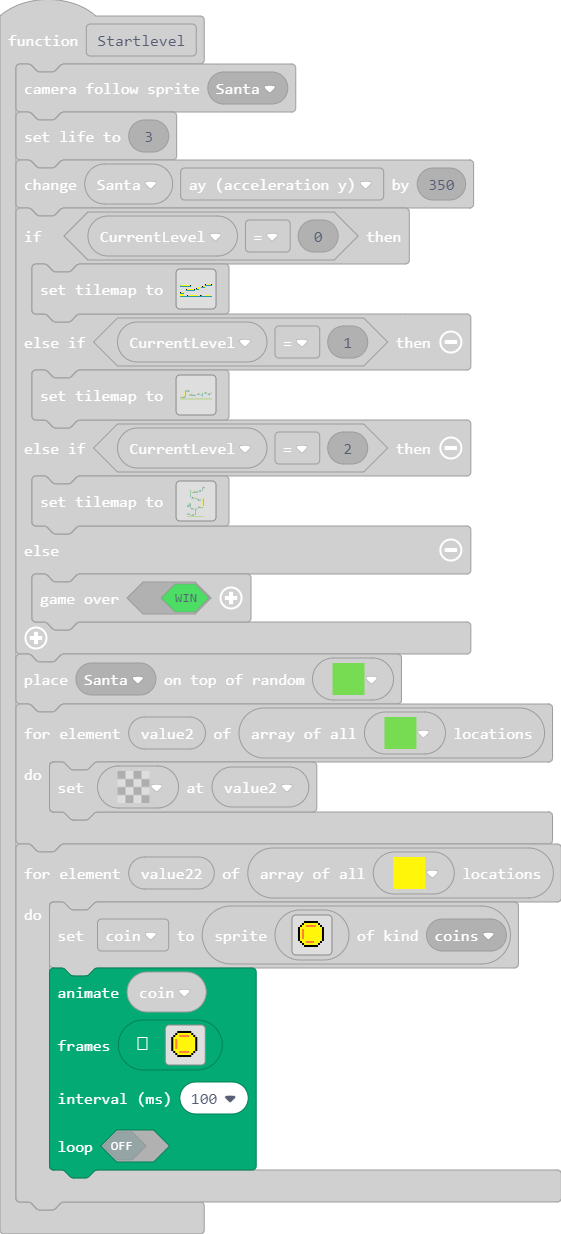
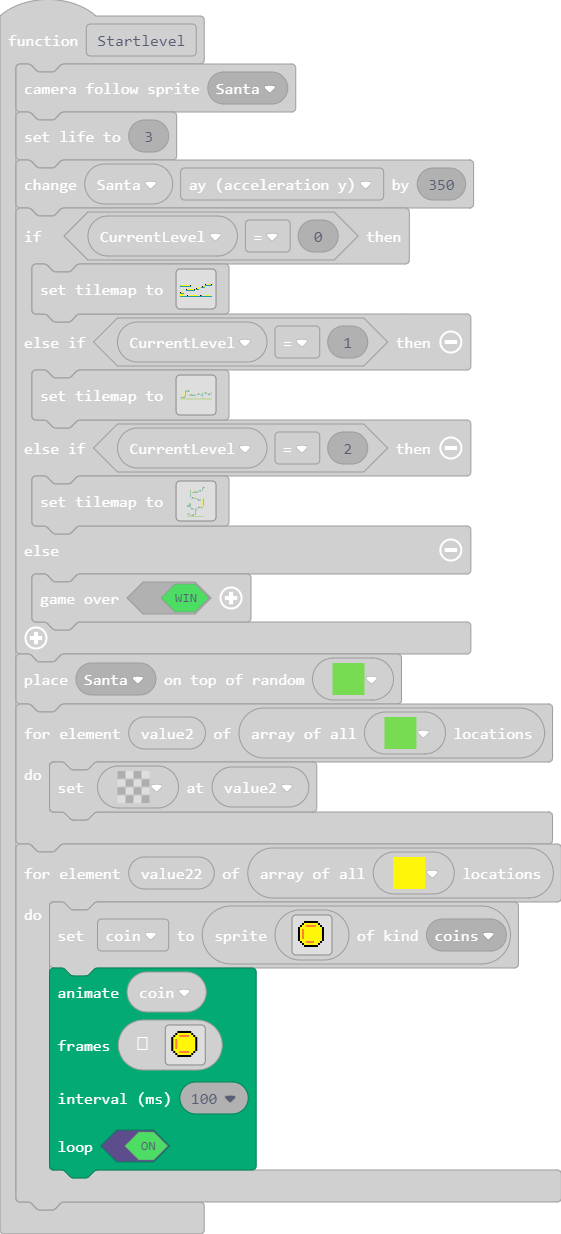
Update main.blocks, main.ts

Changed region(s): [[0.1818, 0.8006, 0.4545, 0.9546]]

diff --git a/main.ts b/main.ts
@@ -507,7 +507,7 @@ function Startlevel () {
 . . . . . . . . . . . . . . . . 
 `],
         100,
-        false
+        true
         )
     }
 }
